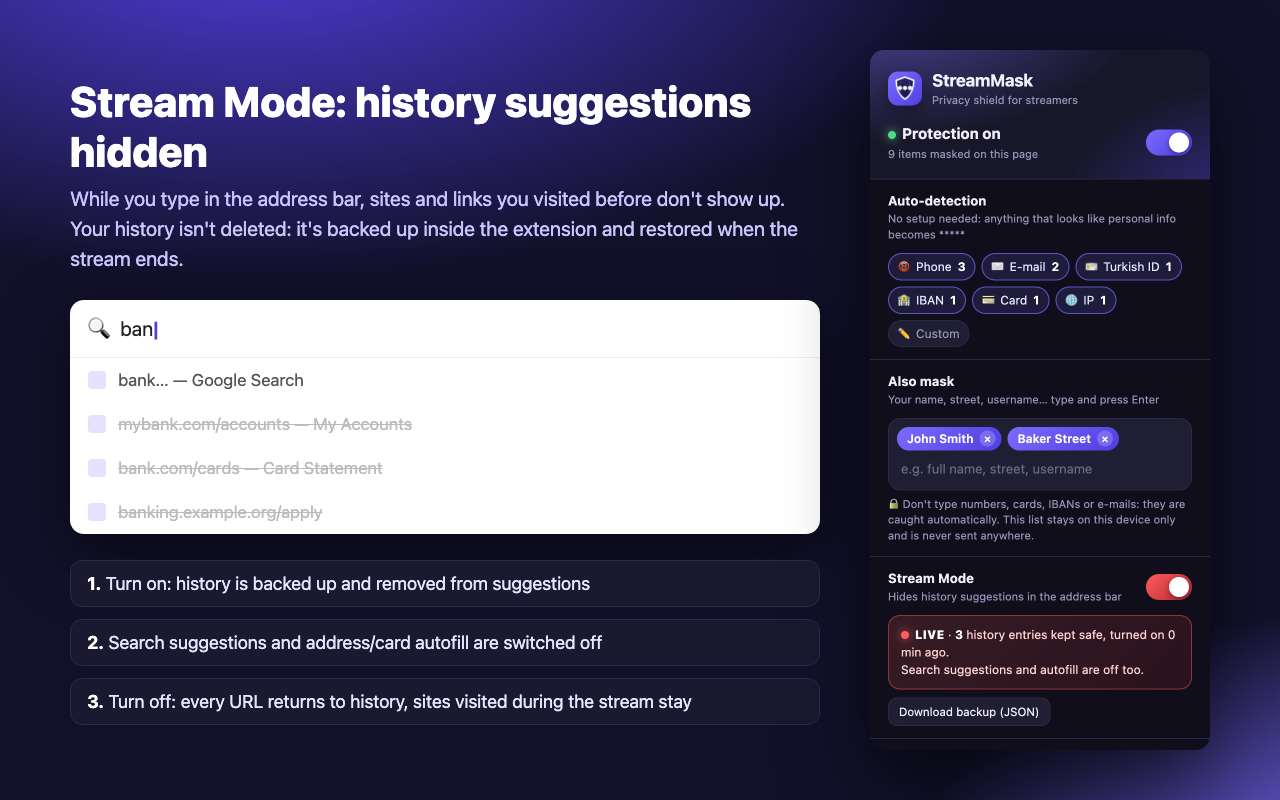
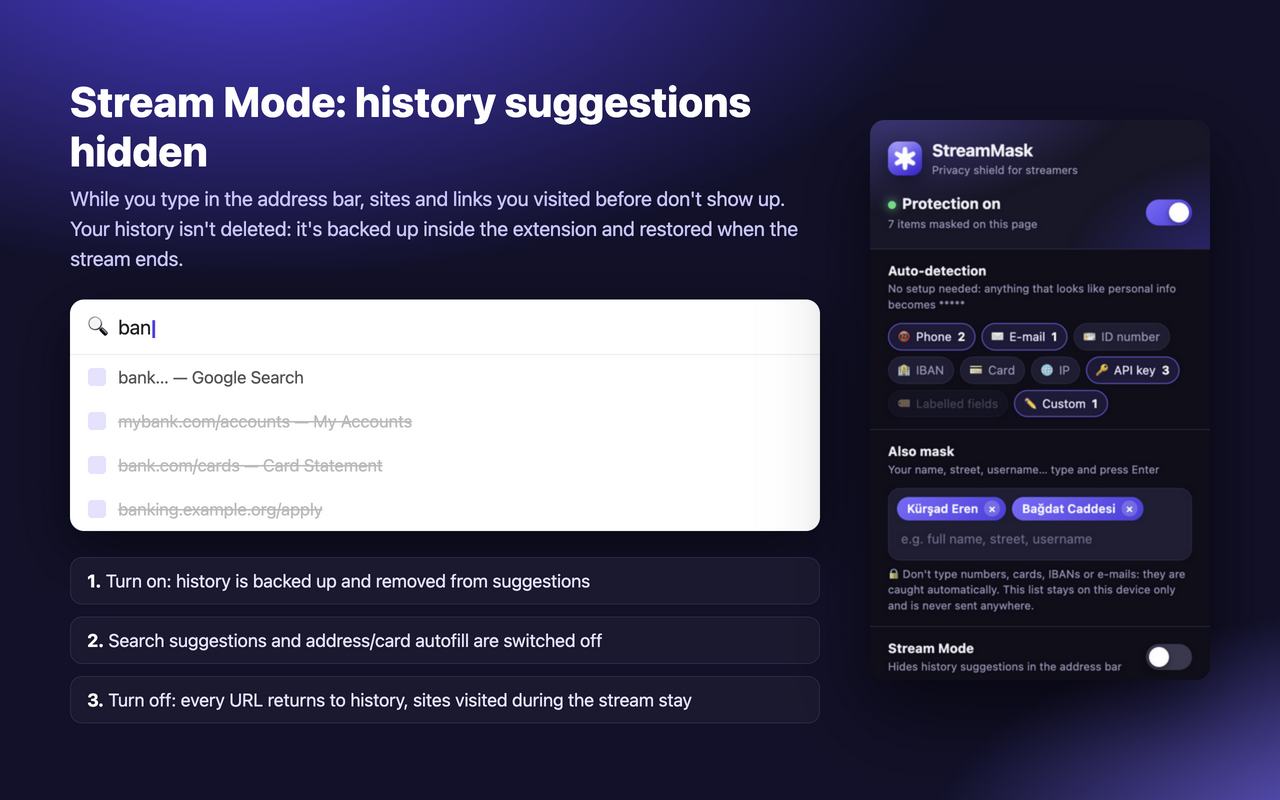
Rebuild the store images from source
The screenshots still showed September's popup: the old shield icon, a
category list without API keys or labelled fields, and no OBS section.
Anyone arriving from the store or the README was looking at a different
extension from the one they would install.

store/src/build-images.js renders the source pages in Electron and
captures them, so no dev server is needed to rebuild them. The popup in
those images is not a mock: it is popup.html itself, drawn by the preview
harness against a stubbed chrome API, so it cannot drift from the real
interface again.

Three things the rebuild surfaced. Electron quits once the last window
closes, which killed the script halfway through while it was opening
windows one at a time. capturePage returns a 2x image on this display,
and the store wants exactly 1280x800. And the popup has grown past 1200
pixels with the OBS and bridge sections, so it no longer fits the 800
pixel frame — the images now use its top, which is the part worth
showing anyway.

Promo and marquee art picked up the new icon at the same time.

diff --git a/store/src/build-images.js b/store/src/build-images.js
@@ -1,0 +1,93 @@
+/* Mağaza görsellerini kaynak HTML'lerden basar.
+ *
+ * Neden Electron: bu sayfalar gerçek bir tarayıcı motoru ister (degrade, yazı
+ * tipi, SVG), ama görüntü almak için bir geliştirme sunucusu açmak gerekmesin
+ * istiyoruz. Electron hem sayfayı çiziyor hem capturePage ile tam boyutta PNG
+ * veriyor; her görsel kendi hedef boyutunda çiziliyor, büyük bir PNG küçültülmüyor.
+ *
+ * Açılır pencerenin görüntüsü de buradan geliyor: test/popup-preview.html gerçek
+ * popup.html'i taklit edilmiş chrome API'siyle çiziyor, yani görsellerdeki panel
+ * elle çizilmiş bir taklit değil, arayüzün kendisi.
+ *
+ * Kullanım:  npx electron store/src/build-images.js      (StreamMaskDesktop'taki
+ *            electron kullanılabilir: cd ../StreamMaskDesktop && npx electron …)
+ */
+const { app, BrowserWindow } = require('electron');
+const path = require('path');
+const fs = require('fs');
+
+const SRC = __dirname;
+const OUT = path.join(SRC, '..', 'out');
+const ROOT = path.join(SRC, '..', '..');
+
+/* Açılır pencere OBS ve köprü bölümleriyle birlikte 1200 pikseli aştı; ekran
+ * görüntüsü çerçevesi 800 piksel. Üst kısmı alıyoruz: durum, algılama rozetleri
+ * ve özel kelimeler — tanıtımda görülmesi gereken kısım zaten orası. */
+const POPUP_CROP = 560;
+
+const PAGES = [
+  ['shot1.html', 'screenshot-1.png', 1280, 800],
+  ['shot2.html', 'screenshot-2.png', 1280, 800],
+  ['shot3.html', 'screenshot-3.png', 1280, 800],
+  ['promo440.html', 'promo-440x280.png', 440, 280],
+  ['marquee1400.html', 'marquee-1400x560.png', 1400, 560]
+];
+
+async function capturePage(file, out, width, height) {
+  const win = new BrowserWindow({ show: false, width, height, useContentSize: true });
+  win.webContents.on('did-fail-load', (e, code, desc, url) => console.error('yüklenemedi:', code, desc, url));
+  await win.loadFile(path.join(SRC, file));
+  await new Promise(r => setTimeout(r, 450));            // yazı tipi ve SVG yerleşsin
+  // Retina ekranda capturePage 2x döner; mağaza tam 1280x800 istiyor
+  const img = (await win.webContents.capturePage({ x: 0, y: 0, width, height }))
+    .resize({ width, height, quality: 'best' });
+  fs.writeFileSync(path.join(OUT, out), img.toPNG());
+  win.destroy();
+  await new Promise(r => setTimeout(r, 120));            // pencereler arası nefes payı
+  console.log(out + ' (' + width + 'x' + height + ')');
+}
+
+/* Açılır pencereyi iki durumda da yakala: koruma açık ve kapalı */
+async function capturePopup() {
+  const win = new BrowserWindow({
+    show: false, width: 520, height: 1500, useContentSize: true,
+    webPreferences: { webSecurity: false }               // file:// üzerinden fetch için
+  });
+  await win.loadFile(path.join(ROOT, 'test', 'popup-preview.html'));
+  await new Promise(r => setTimeout(r, 900));            // popup.js yüklensin
+
+  for (const [name, on] of [['popup-on.png', true], ['popup-off.png', false]]) {
+    const rect = await win.webContents.executeJavaScript(`(() => {
+      const cb = document.getElementById('enabled');
+      if (cb && cb.checked !== ${on}) cb.click();
+      const f = document.getElementById('frame');
+      const r = f.getBoundingClientRect();
+      return { x: Math.round(r.x), y: Math.round(r.y),
+               width: Math.round(r.width), height: Math.min(Math.round(r.height), ${POPUP_CROP}) };
+    })()`);
+    await new Promise(r => setTimeout(r, 250));
+    const img = (await win.webContents.capturePage(rect))
+      .resize({ width: rect.width, height: rect.height, quality: 'best' });
+    fs.writeFileSync(path.join(SRC, name), img.toPNG());
+    console.log(name + ' (' + rect.width + 'x' + rect.height + ')');
+  }
+  win.destroy();
+  await new Promise(r => setTimeout(r, 300));
+}
+
+/* Son pencere kapanınca Electron uygulamayı sonlandırır; biz pencereleri sırayla
+ * açıp kapattığımız için arada sıfıra düşüyor ve betik yarıda ölüyordu. */
+app.on('window-all-closed', () => {});
+
+app.whenReady().then(async () => {
+  try {
+    fs.mkdirSync(OUT, { recursive: true });
+    await capturePopup();                                 // ekran görüntüleri buna dayanıyor
+    for (const [file, out, w, h] of PAGES) await capturePage(file, out, w, h);
+    console.log('\nhazır: store/out/');
+    app.exit(0);
+  } catch (e) {
+    console.error(e);
+    app.exit(1);
+  }
+});

diff --git a/store/src/marquee1400.html b/store/src/marquee1400.html
@@ -4,7 +4,7 @@ body{width:1400px;height:560px}.wrap{width:1400px;height:560px;padding:70px 90px
 .feat{margin-top:34px;font-size:24px;line-height:1.7;color:#d8d6ff}.feat b{color:#fff}
 .card{width:520px;font-size:20px;line-height:1.9}.card .who{color:#8f88ff;font-weight:700}
 </style></head><body class="grad"><div class="wrap">
-<div class="left"><div class="brand"><img src="logo.svg"><div><h1>StreamMask</h1><p>Hide personal info while streaming</p></div></div>
+<div class="left"><div class="brand"><img src="icon.svg"><div><h1>StreamMask</h1><p>Hide personal info while streaming</p></div></div>
 <div class="feat"><b>Keep your personal info off the stream.</b><br>Phone numbers, e-mails, IDs, IBANs, cards, IPs and your name become <b>*****</b> instantly.<br>Stream Mode hides history suggestions in the address bar.</div></div>
 <div class="card"><div><span class="who">Support:</span> My number is <span class="mask">*****</span>, call me anytime.</div>
 <div><span class="who">John:</span> My e-mail is <span class="mask">*****</span></div>

diff --git a/store/src/shot1.html b/store/src/shot1.html
@@ -9,5 +9,5 @@ body{width:1280px;height:800px}.wrap{width:1280px;height:800px;padding:56px 70px
 <div class="page"><div class="bar"><i></i><i></i><i></i><span>panel.example.com/profile</span></div>
 <h3>Profile details</h3>
 Full name: <span class="mask">*****</span><br>Phone: <span class="mask">*****</span> · Backup: <span class="mask">*****</span><br>E-mail: <span class="mask">*****</span><br>National ID: <span class="mask">*****</span><br>IBAN: <span class="mask">*****</span><br>Last login IP: <span class="mask">*****</span> · Version 2.1.0 · Order #2024-10</div></div>
-<img src="popup-off.png" style="width:340px;border-radius:14px;box-shadow:0 30px 80px rgba(0,0,0,.6)">
+<img src="popup-on.png" style="width:340px;border-radius:14px;box-shadow:0 30px 80px rgba(0,0,0,.6)">
 </div></body></html>

diff --git a/store/src/promo440.html b/store/src/promo440.html
@@ -3,6 +3,6 @@ body{width:440px;height:280px}.wrap{width:440px;height:280px;padding:30px 34px;d
 .brand img{width:64px;height:64px;border-radius:16px}.brand h1{font-size:34px}.brand p{font-size:14px}
 .line{font-size:17px;line-height:1.5;color:#ececf3}.line .mask{font-size:15px}
 </style></head><body class="grad"><div class="wrap">
-<div class="brand"><img src="logo.svg"><div><h1>StreamMask</h1><p>Hide personal info while streaming</p></div></div>
+<div class="brand"><img src="icon.svg"><div><h1>StreamMask</h1><p>Hide personal info while streaming</p></div></div>
 <div class="line">Phone: <span class="mask">*****</span> &nbsp; E-mail: <span class="mask">*****</span><br>IBAN: <span class="mask">*****</span> &nbsp; Address-bar history: hidden</div>
 </div></body></html>
